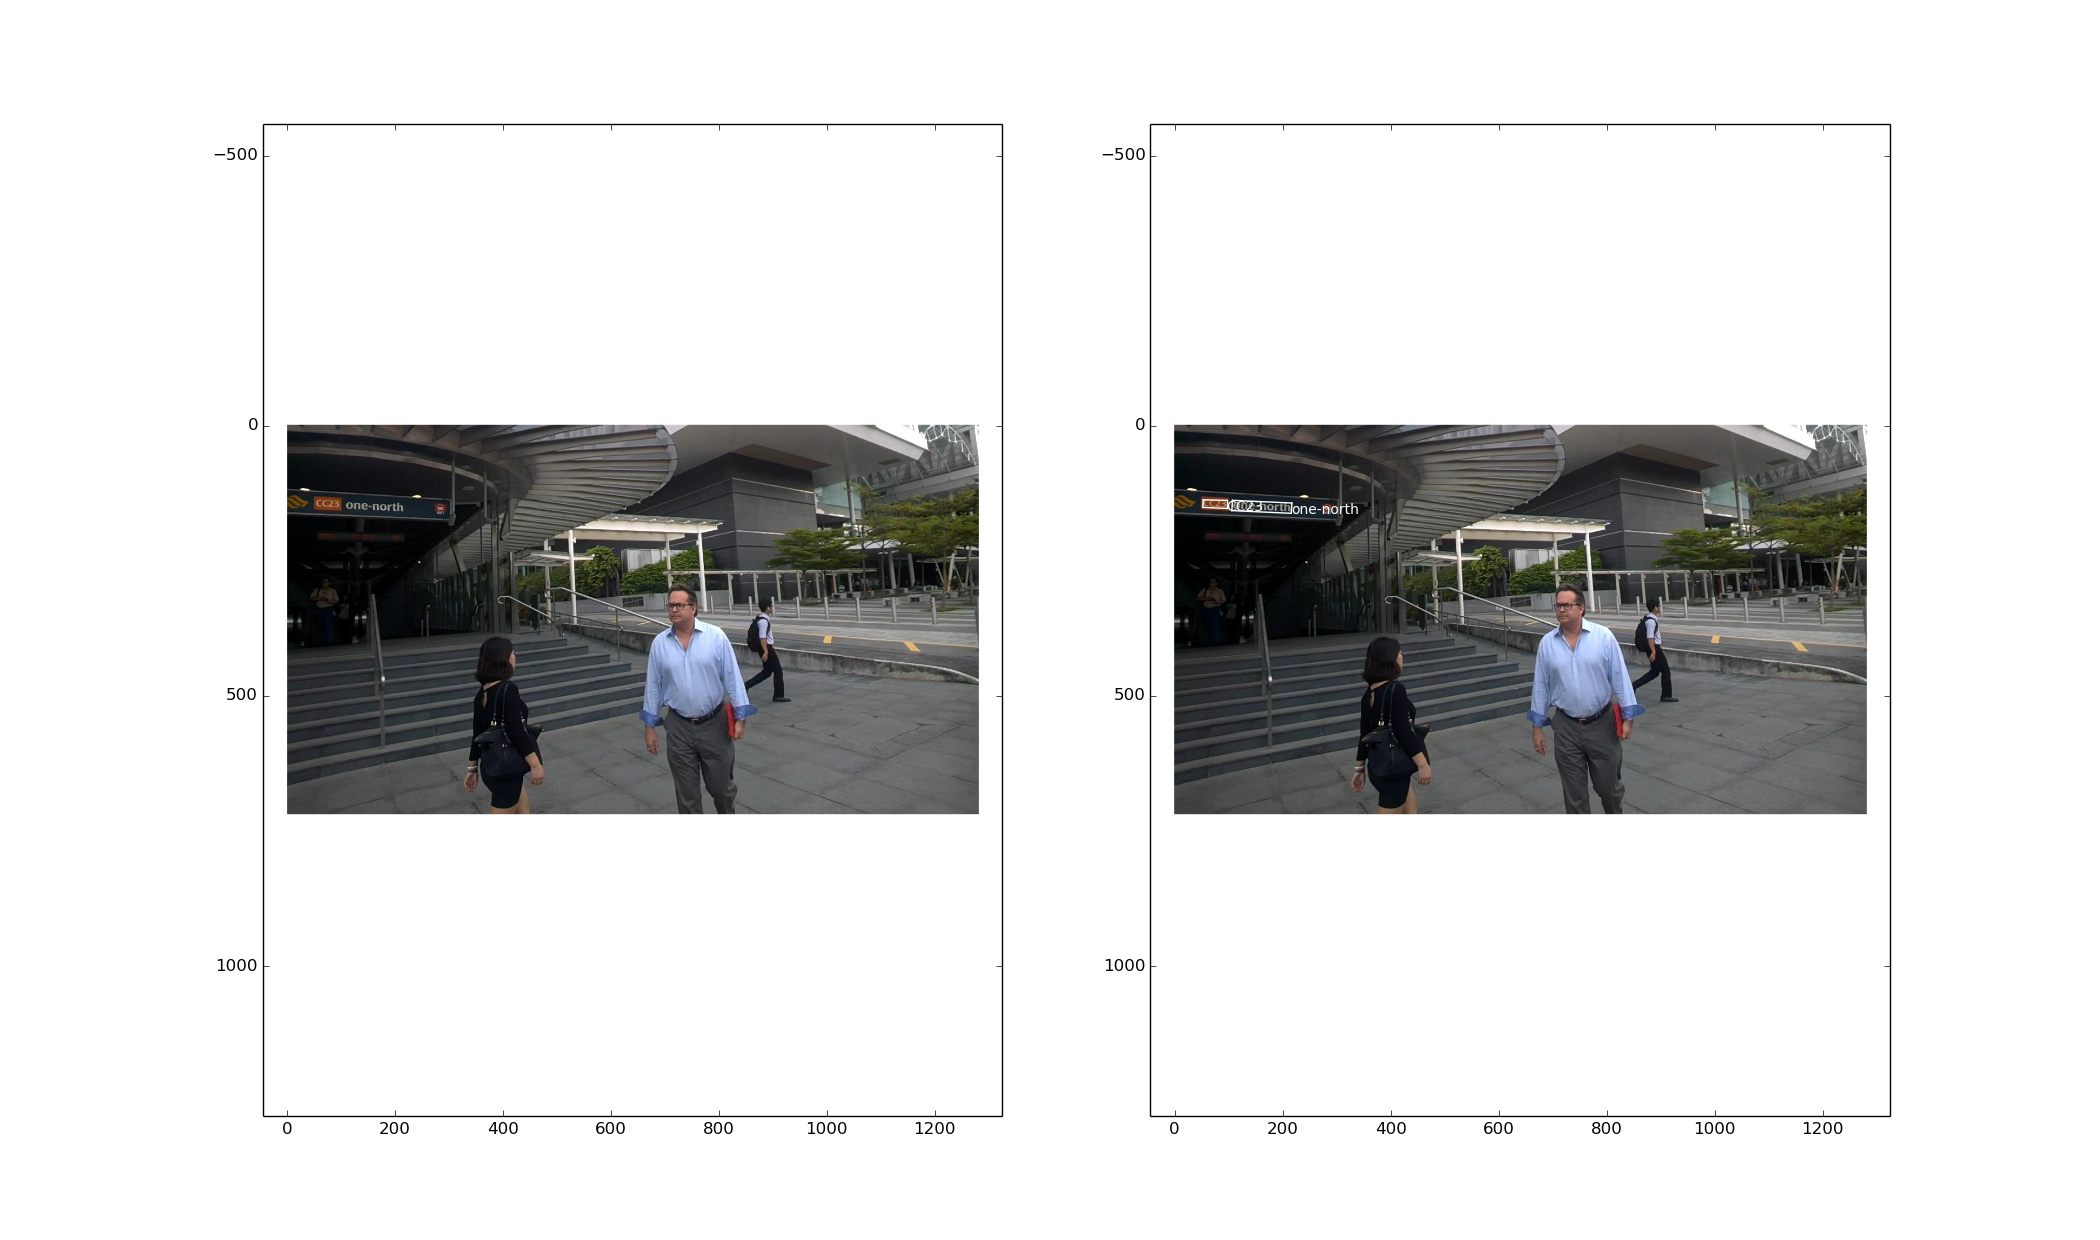
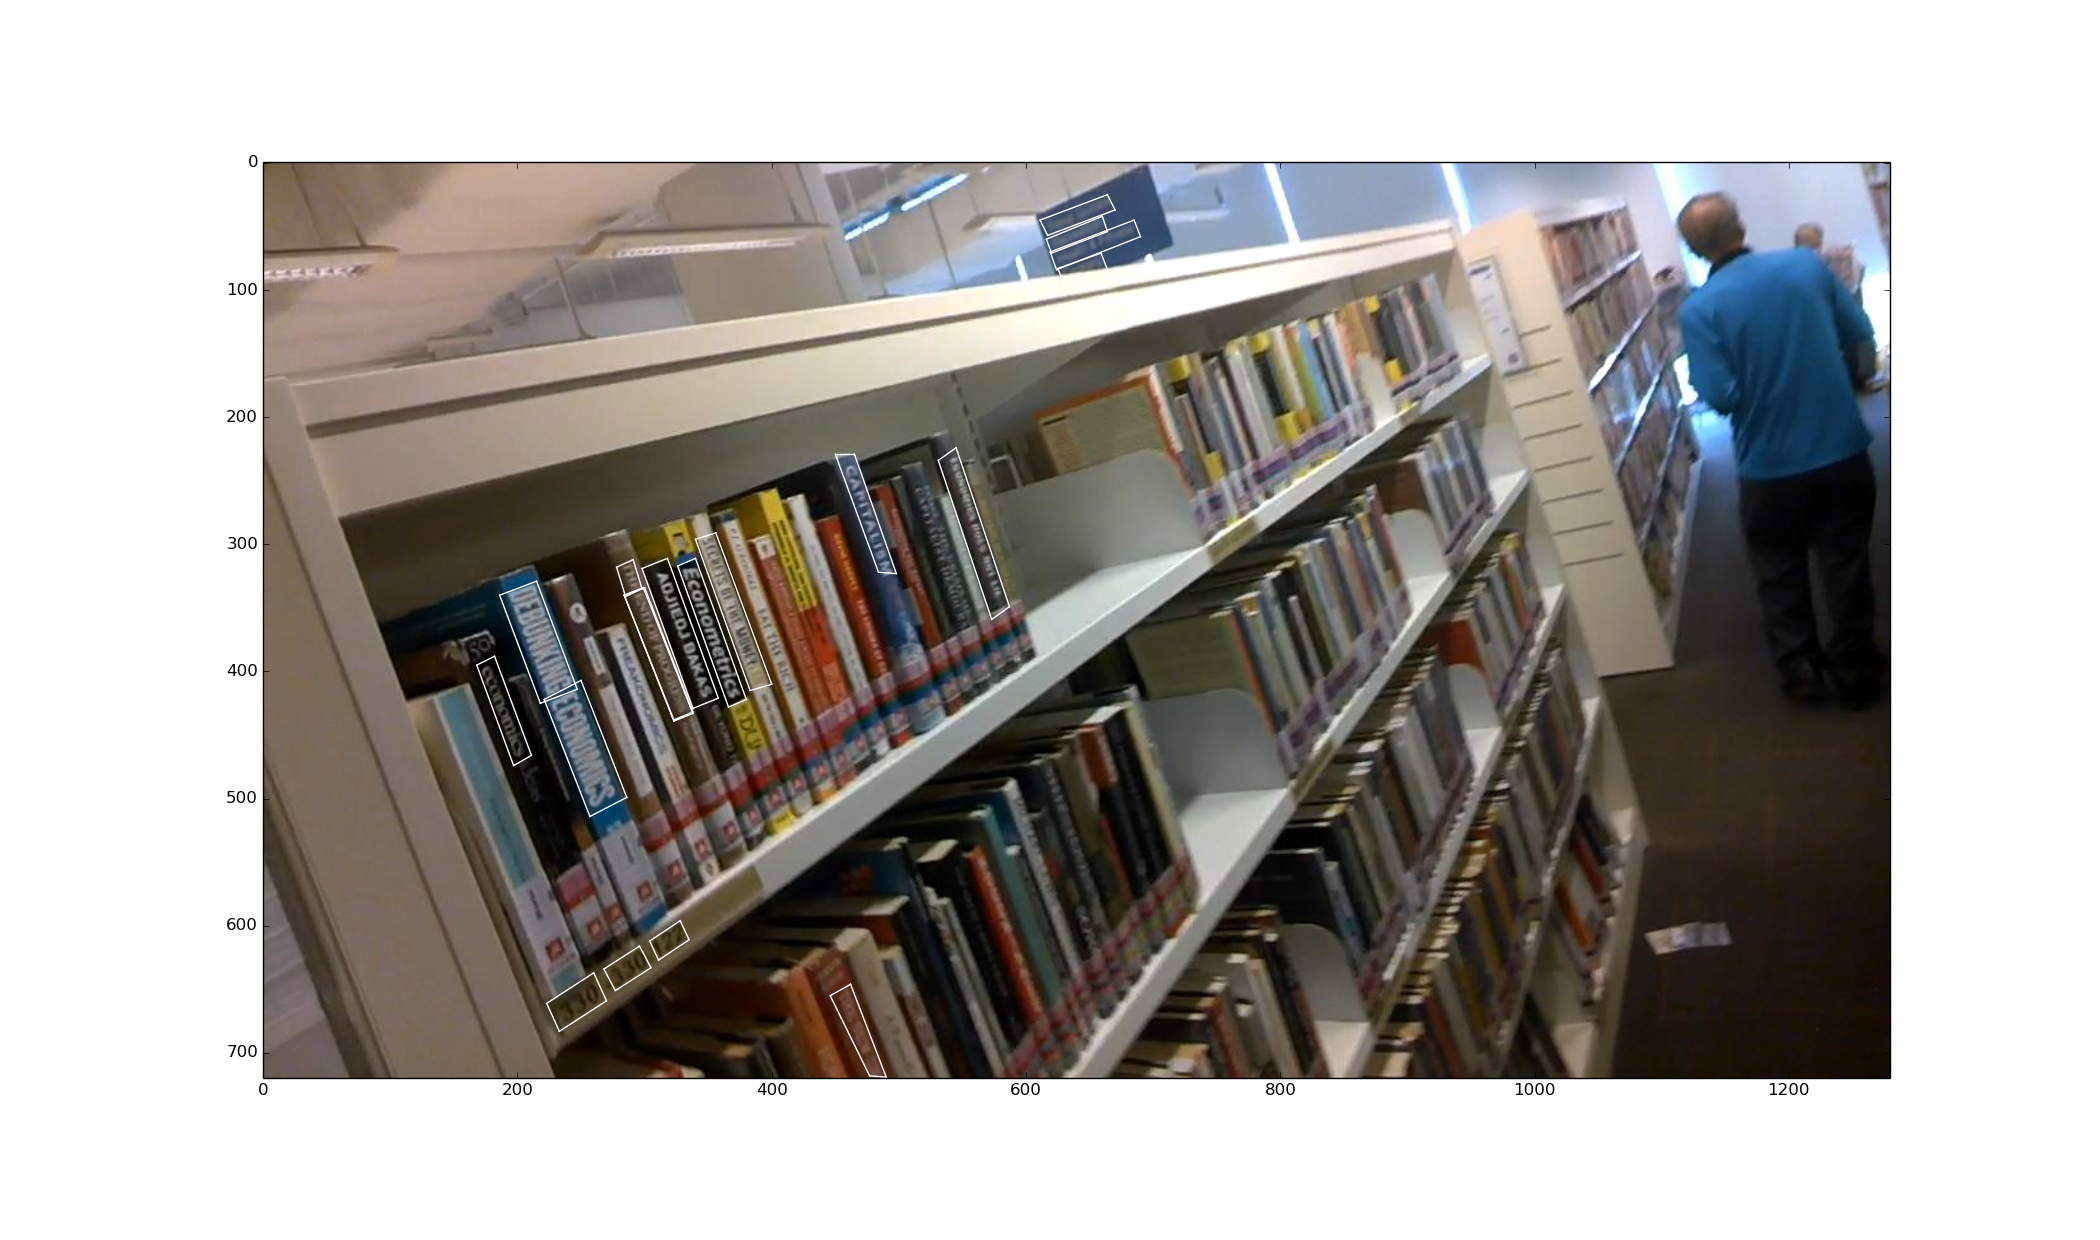
Add examples.

diff --git a/README.md b/README.md
@@ -7,12 +7,18 @@ Visualize the dataset of ICDAR 2015. Only challenge 4 task 1 is available curren
 python vis.py --idx=300 --color=white --show-text=1 --show-origin=1
 
 ```
+
+See doc:
+```
+help vis.py
+```
+
 Example:
 --show-text=0
-
+![https://raw.githubusercontent.com/dengdan/ICDAR_2015_data_visualization/master/example1.png]
 --show-text=1
-
+![https://raw.githubusercontent.com/dengdan/ICDAR_2015_data_visualization/master/example2.png]
 --show-origin=0
-
+![https://raw.githubusercontent.com/dengdan/ICDAR_2015_data_visualization/master/example3.png]
 --show-origin=1
-
+![https://raw.githubusercontent.com/dengdan/ICDAR_2015_data_visualization/master/example4.png]
